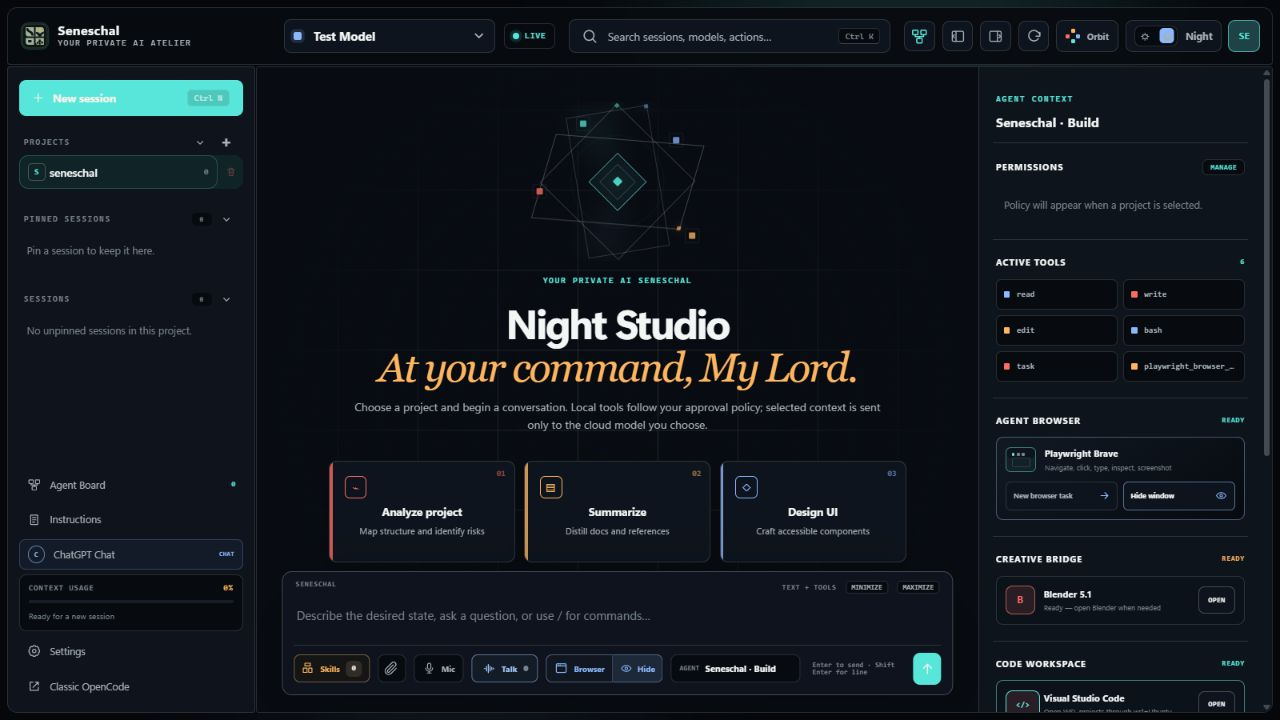
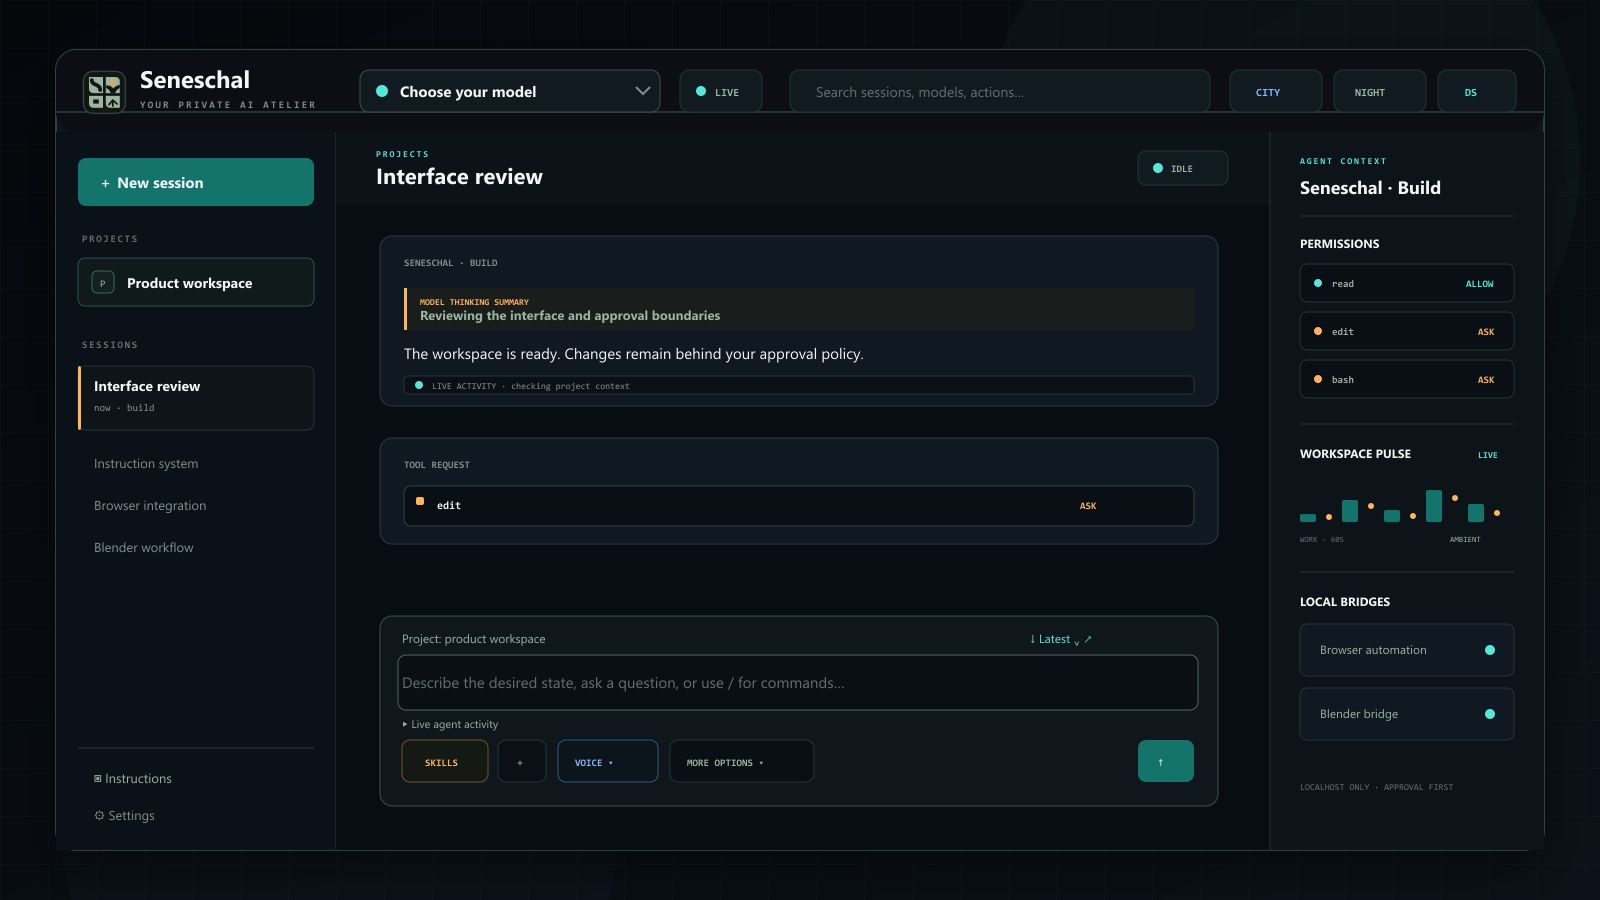
Refresh README interface illustration

diff --git a/README.md b/README.md
@@ -38,7 +38,7 @@ It is not an AI model, a provider subscription, or a way around provider usage l
 
 ## Interface
 
-![Privacy-safe illustration of the Seneschal night workspace](https://github.com/user-attachments/assets/5bc84b8c-f4dc-460b-b726-d7046a4d6cf4)
+![Privacy-safe illustration of the Seneschal beta 19 workspace and compact composer](docs/images/seneschal-workspace-night.png)
 
 The image above is a privacy-safe product illustration based on the real interface. It shows the three-part workspace, approval controls, activity reporting, and local bridge status without exposing a user's sessions or provider account.
 
